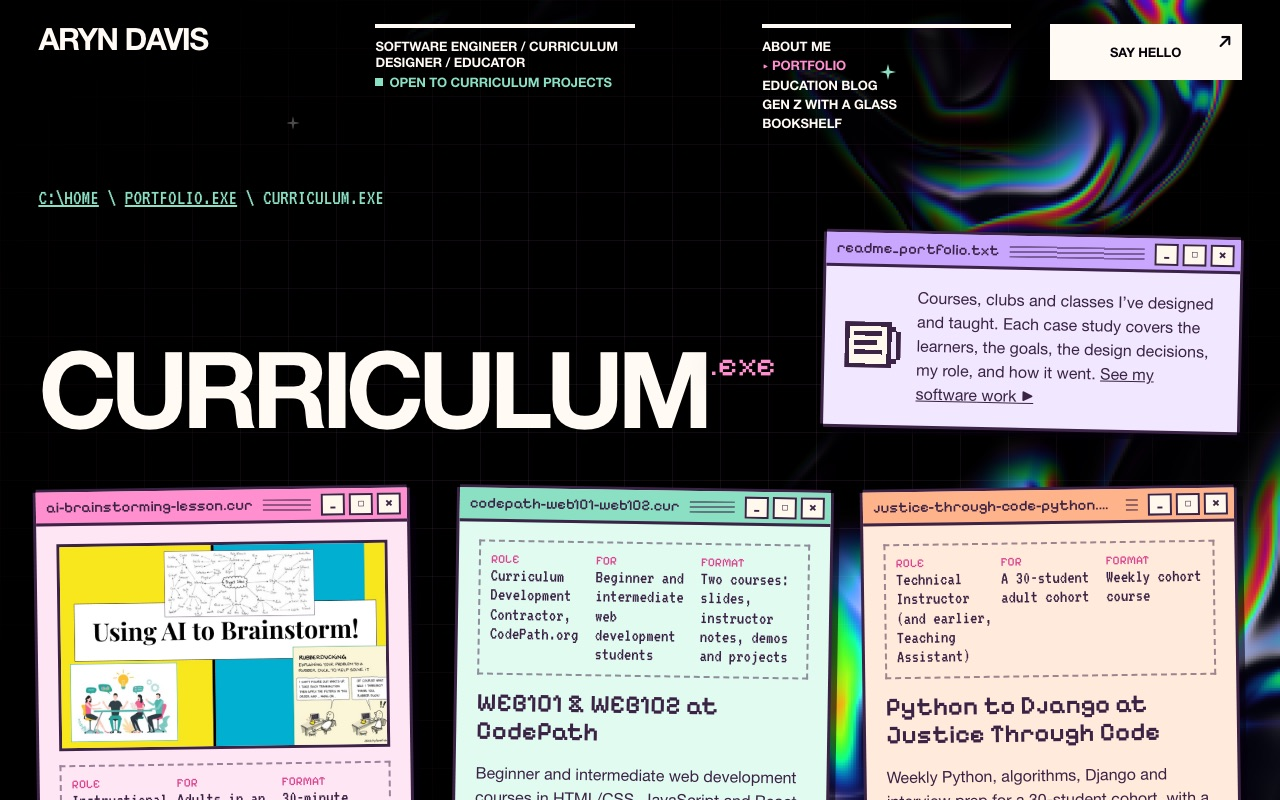
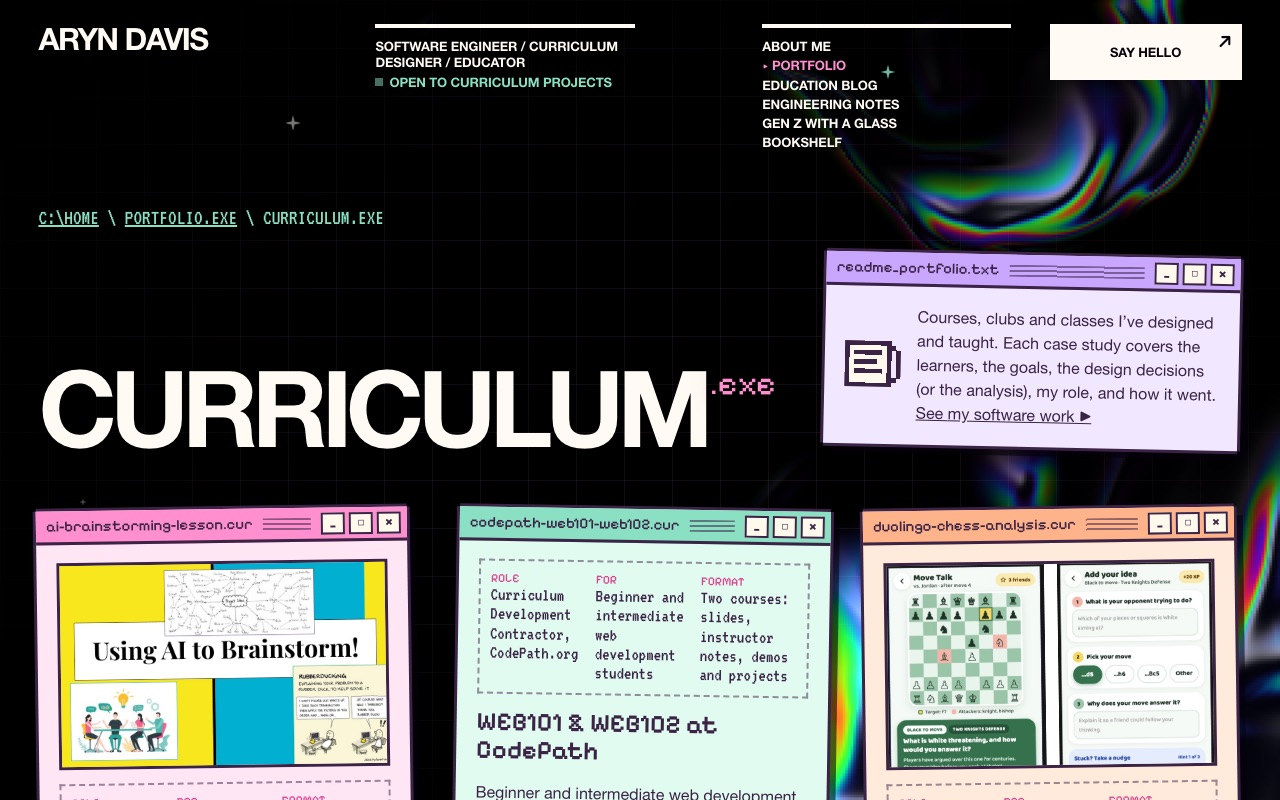
Review fixes: feature only software on the home page, tighter copy, fresh screenshot
- The home page's featured project is the newest software project with links,
  so a paper or lesson PDF never replaces it.
- AI lesson: Merrill bullets match the materials (no claimed tie to the brief,
  and Integration no longer repeats How it went).
- Duolingo paper: role is 'Co-author'; the course line names the program at
  Teachers College. The curriculum intro and outline comment allow for an
  analysis instead of design decisions.
- README: retook the curriculum page screenshot.

diff --git a/src/content/portfolio.ts b/src/content/portfolio.ts
@@ -164,6 +164,7 @@ export const projects: Project[] = [
   },
   // Curriculum case studies share one outline: who it was for, goals, design decisions
   // (framed by ADDIE: analysis, design, development, implementation), my role, and how it went (evaluation).
+  // An analysis of someone else's design (like the Duolingo paper) has "The analysis" and "Redesign" instead.
   {
     slug: 'ai-brainstorming-lesson',
     track: 'curriculum',
@@ -210,11 +211,11 @@ export const projects: Project[] = [
       {
         type: 'list',
         items: [
-          'Problem-centered: everything centers on a real problem, first a remote company deciding whether to go hybrid, then a problem of each learner’s own, which ties back to the market research in the brief.',
+          'Problem-centered: everything centers on solving a real problem, first a remote company deciding whether to go hybrid, then a new problem of each learner’s choice. The skill itself was chosen for the hardest part of their project, the brief’s market research.',
           'Activation: learners start with what they already know, like what makes a good brainstorming session and what they’d ask about the problem, before anyone opens an AI tool.',
           'Demonstration: every tip comes with a live prompt example, so learners see a technique in action before they try it.',
           'Application: the breakout rooms and the independent activity have learners use the techniques themselves, on a new problem.',
-          'Integration: the wrap-up asks for one technique each learner will keep using and one they won’t, shared as a group list after class.',
+          'Integration: the wrap-up has learners reflect on how they’ll use AI in their own planning and brainstorming going forward.',
         ],
       },
       { type: 'h', text: 'Design decisions' },
@@ -341,7 +342,7 @@ export const projects: Project[] = [
     title: 'A critical analysis of Duolingo Chess',
     date: '2026-10-21',
     period: 'Oct 2026',
-    role: 'Co-author (co-written with a classmate)',
+    role: 'Co-author',
     audience: 'Adults learning chess informally',
     format: 'Theory-based design analysis, with redesign mockups',
     summary: 'A design critique of Duolingo Chess through the Cognitive Theory of Multimedia Learning and social constructivism, with redesign recommendations and mockups.',
@@ -355,7 +356,7 @@ export const projects: Project[] = [
       { type: 'h', text: 'Who it was for' },
       {
         type: 'p',
-        text: 'A midterm paper for MSTU 4083 in Technology, Media, and Learning at Columbia, co-written with a classmate. We were interested in informal learning among adult learners, and we had contrasting chess experience: one of us had played before, and the other had never taken a lesson. That gave us an intermediate and a novice view of Duolingo’s newest course.',
+        text: 'A midterm paper for MSTU 4083, in the Technology, Media, and Learning program at Teachers College, Columbia University, co-written with a classmate. We were interested in informal learning among adult learners, and we had contrasting chess experience: one of us had played before, and the other had never taken a lesson. That gave us an intermediate and a novice view of Duolingo’s newest course.',
       },
       { type: 'h', text: 'Goals' },
       { type: 'p', text: 'We set out to:' },

diff --git a/src/pages/Home.tsx b/src/pages/Home.tsx
@@ -11,8 +11,8 @@ import { school } from '../content/school'
 import { bookshelf, projectPath, sections, site, type SectionKey } from '../site'
 
 const latest = <T extends Entry>(entries: T[], count = 2) => newestFirst(entries).slice(0, count)
-// The featured project is the newest one people can open and try.
-const featuredProject = latest(projects.filter((project) => project.links?.length), 1)[0]
+// The featured project is the newest thing I've built that people can open and try (a software project with links).
+const featuredProject = latest(projects.filter((project) => project.track === 'software' && project.links?.length), 1)[0]
 
 const inSection = (key: SectionKey) => (entry: Entry) => ({ slug: entry.slug, title: entry.title, path: `${sections[key].path}/${entry.slug}` })
 

diff --git a/src/pages/Sections.tsx b/src/pages/Sections.tsx
@@ -129,7 +129,7 @@ export function PortfolioTrackPage({ track, slug }: { track: Track; slug?: strin
       intro={
         <p>
           {curriculum
-            ? 'Courses, clubs and classes I’ve designed and taught. Each case study covers the learners, the goals, the design decisions, my role, and how it went.'
+            ? 'Courses, clubs and classes I’ve designed and taught. Each case study covers the learners, the goals, the design decisions (or the analysis), my role, and how it went.'
             : 'Things I’ve designed and built, most with a live demo and the code on GitHub.'}{' '}
           <a href={href(portfolioTracks[curriculum ? 'software' : 'curriculum'].path)}>See {curriculum ? 'my software' : 'my curriculum design'} work ▶</a>
         </p>
